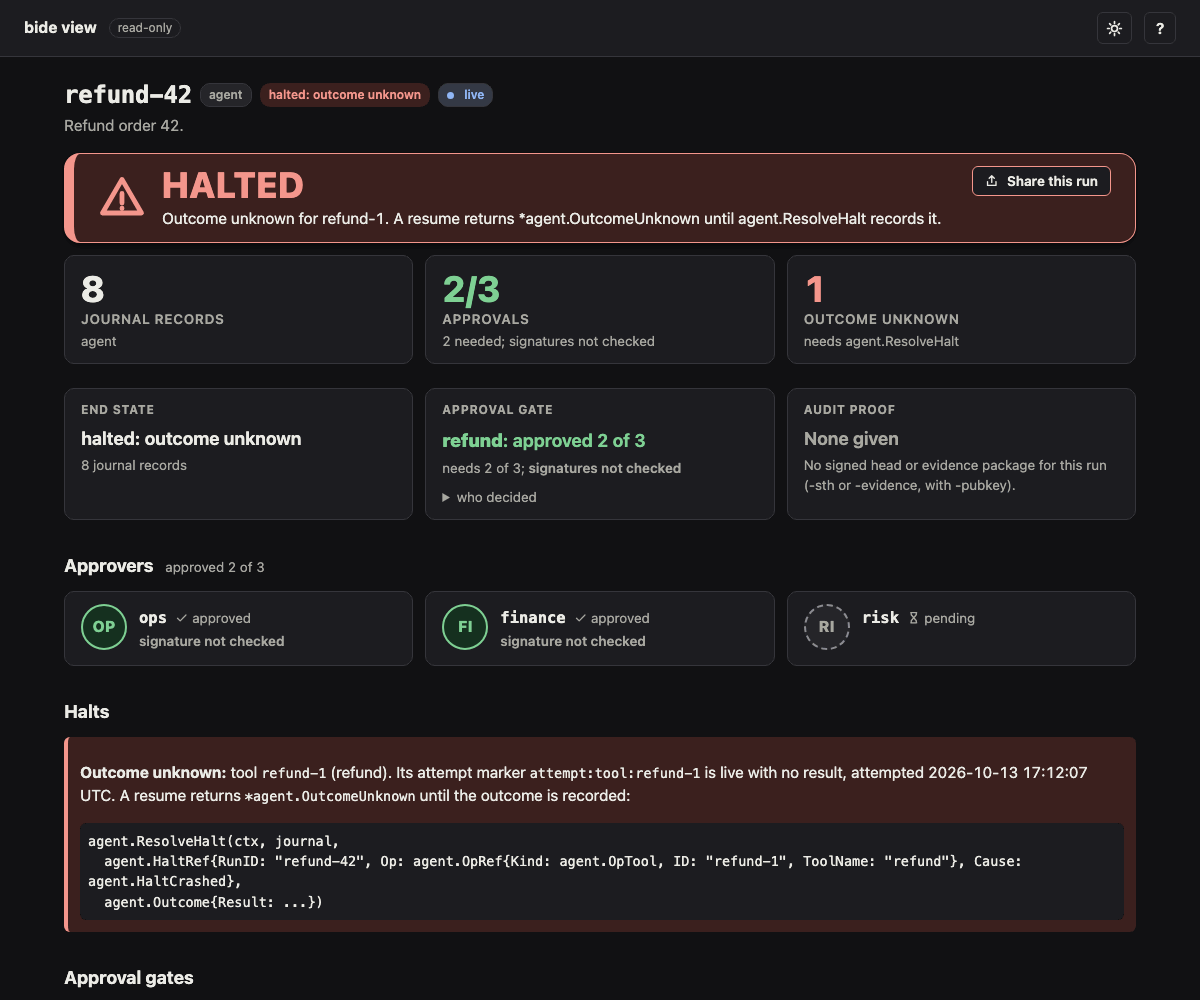
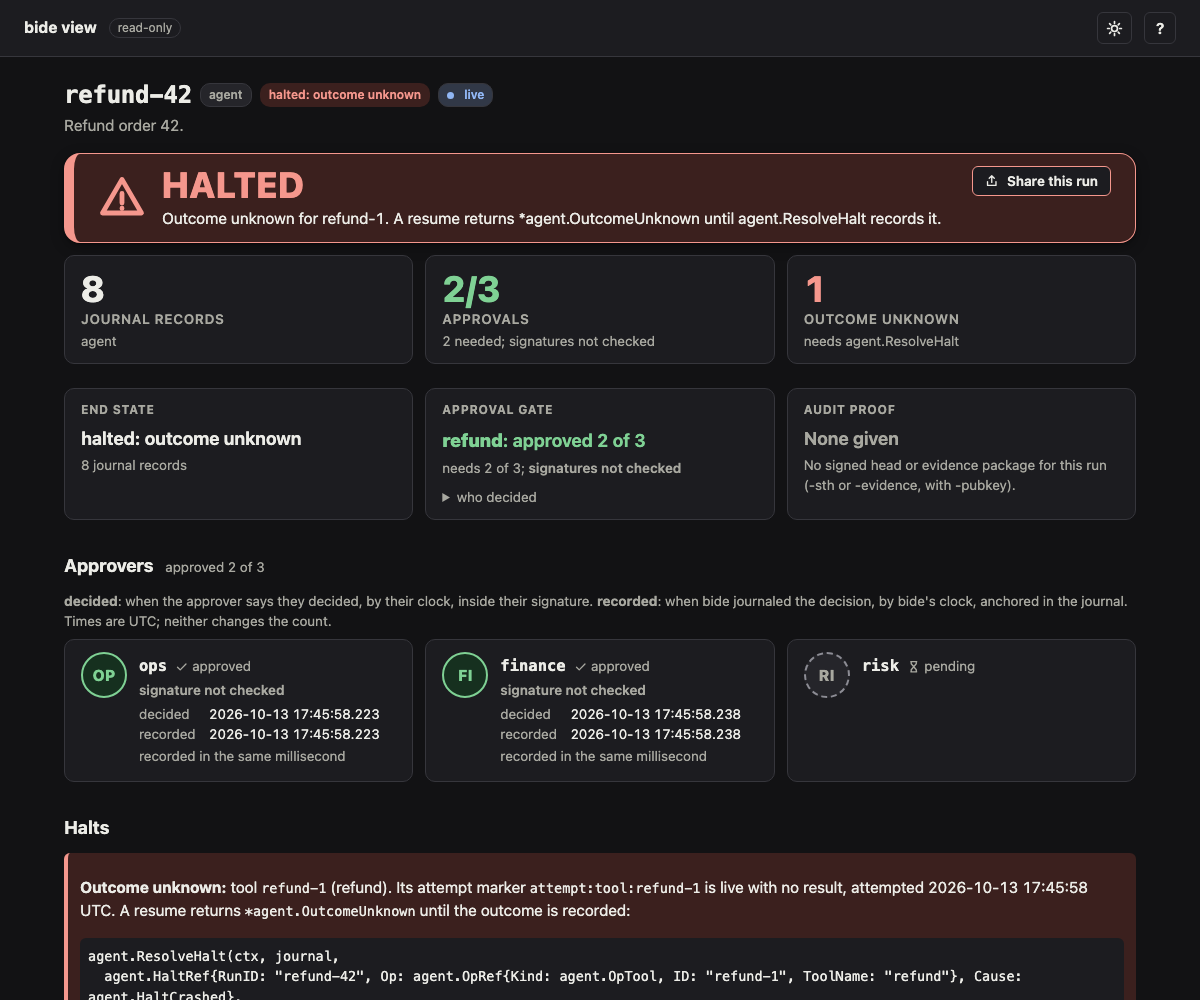
approval times: approver card layout, retaken viewer images, known limitation

Changed region(s): [[0.0308, 0.589, 0.9558, 1.0]]

diff --git a/internal/runview/assets/run.html b/internal/runview/assets/run.html
@@ -37,14 +37,14 @@
 </section>
 
 {{range .Gates}}{{if .Cards}}<section class="approvals"><h2>Approvers{{if gt (len $.Gates) 1}}: {{.ToolName}}{{end}} <span class="count">{{.Headline}}</span></h2>
+{{if .HasTimes}}<p class="small muted atimesnote"><b>decided</b>: when the approver says they decided, by their clock, inside their signature. <b>recorded</b>: when bide journaled the decision, by bide's clock, anchored in the journal. Times are UTC; neither changes the count.</p>{{end}}
 <ul class="acards">{{range .Cards}}<li class="acard a-{{.State}}">
 <span class="avatar" aria-hidden="true">{{.Initials}}</span>
 <div class="abody"><p class="aname"><b>{{.Name}}</b> <span class="astate">{{if eq .State "approved"}}{{icon "ok"}} approved{{else if eq .State "denied"}}{{icon "x"}} denied{{else}}{{icon "wait"}} pending{{end}}</span></p>
 {{if .Verify}}<p class="averify {{if .VerifyOK}}good{{else if eq .Verify "signature NOT verified"}}bad{{else}}muted{{end}}">{{if .VerifyOK}}{{icon "approval"}} {{else if eq .Verify "signature NOT verified"}}{{icon "x"}} {{end}}{{.Verify}}</p>{{end}}
 {{with .Why}}<p class="small bad">{{.}}</p>{{end}}
 {{with .Fingerprint}}<p class="small mono" title="the first 8 hex digits of the SHA-256 of the approver's public key">key {{.}}</p>{{end}}
-{{with .DecidedAt}}<p class="small" title="the approver's clock when they signed; inside the signature, so it cannot change after signing">decided {{.}} <span class="muted">(signed, the approver's clock)</span></p>{{end}}
-{{with .RecordedAt}}<p class="small" title="bide's clock when it journaled the decision; anchored by the Merkle trail, not signed by the approver">recorded {{.}} <span class="muted">(bide's clock)</span></p>{{end}}
+{{if or .DecidedAt .RecordedAt}}<dl class="atimes">{{with .DecidedAt}}<div><dt title="the approver's clock when they signed; inside the signature, so it cannot change after signing">decided</dt><dd>{{.}}</dd></div>{{end}}{{with .RecordedAt}}<div><dt title="bide's clock when it journaled the decision; anchored by the journal's Merkle trail, not signed by the approver">recorded</dt><dd>{{.}}</dd></div>{{end}}</dl>{{end}}
 {{with .Gap}}<p class="small muted">{{.}}</p>{{end}}
 {{range .Flags}}<p class="small aflag">{{icon "clock"}} {{.}}</p>{{end}}</div></li>{{end}}</ul></section>{{end}}{{end}}
 

diff --git a/internal/runview/assets/extras.css b/internal/runview/assets/extras.css
@@ -18,6 +18,11 @@
 .averify { font-weight: 600; font-size: var(--t-sm); }
 .averify .ic { margin-right: 2px; }
 .aflag { color: var(--warn); font-weight: 600; }
+.atimes { margin: 4px 0 2px; font-size: var(--t-sm); font-variant-numeric: tabular-nums; }
+.atimes div { display: flex; flex-wrap: wrap; column-gap: var(--s2); }
+.atimes dt { color: var(--muted); min-width: 4.6em; }
+.atimes dd { margin: 0; white-space: nowrap; }
+.atimesnote { margin: 0 0 var(--s2); }
 .aflag .ic { margin-right: 2px; }
 
 .merklewrap { padding: var(--s4); }

diff --git a/internal/runview/approvers.go b/internal/runview/approvers.go
@@ -30,7 +30,7 @@ type ApproverCard struct {
 	Fingerprint string
 	// DecidedAt is when the approver says they decided, by their clock, inside the signature;
 	// RecordedAt is when bide journaled the decision, by bide's clock. Both are display text
-	// ("2026-10-13 12:14:03.123 UTC"), empty when the record holds none. Gap is the difference
+	// in UTC ("2026-10-13 12:14:03.123"), empty when the record holds none. Gap is the difference
 	// between them in words, shown without judgment, and Flags the sanity notes on them
 	// (audit.FlagDecisionTimes, under audit.DefaultDecisionTimeTolerance), which never change
 	// the gate's outcome. Empty for a pending approver.
@@ -135,6 +135,11 @@ func cards(g Gate, p *Proof) []ApproverCard {
 	return out
 }
 
+// HasTimes reports whether any of the gate's approver cards shows a decision time.
+func (g Gate) HasTimes() bool {
+	return slices.ContainsFunc(g.Cards, func(c ApproverCard) bool { return c.DecidedAt != "" || c.RecordedAt != "" })
+}
+
 // decisionTime is the two times of approver n's decision on g, with their sanity flags: from the
 // signature check's verdict when it counted the decision (the exact decision the recount
 // counted), else from the journal, the approver's first signed decision with that outcome, the
@@ -152,8 +157,9 @@ func decisionTime(g Gate, chk ApprovalCheck, n string, approved bool) (audit.Dec
 	return audit.DecisionTime{}, false
 }
 
-// displayTime renders a recorded time ("2026-10-13T12:14:03.123Z") as "2026-10-13 12:14:03.123
-// UTC"; a value not in canonical form is shown as it is, marked, and an empty one stays empty.
+// displayTime renders a recorded time ("2026-10-13T12:14:03.123Z") as "2026-10-13 12:14:03.123"
+// (the page says the times are UTC); a value not in canonical form is shown as it is, marked, and
+// an empty one stays empty.
 func displayTime(s string) string {
 	if s == "" {
 		return ""
@@ -162,7 +168,7 @@ func displayTime(s string) string {
 	if err != nil {
 		return fmt.Sprintf("%q (not a canonical time)", s)
 	}
-	return t.Format("2006-01-02 15:04:05.000 UTC")
+	return t.Format("2006-01-02 15:04:05.000")
 }
 
 // gapWords phrases how long after the signed decision time bide recorded the decision, e.g.
@@ -172,7 +178,9 @@ func gapWords(t audit.DecisionTime) string {
 	switch {
 	case !ok:
 		return ""
-	case gap >= 0:
+	case gap == 0:
+		return "recorded in the same millisecond"
+	case gap > 0:
 		return "recorded " + gap.Round(time.Millisecond).String() + " after the signed time"
 	default:
 		return "recorded " + (-gap).Round(time.Millisecond).String() + " before the signed time"

diff --git a/internal/runview/premium_test.go b/internal/runview/premium_test.go
@@ -454,7 +454,7 @@ func TestApproverCards(t *testing.T) {
 	for _, who := range []string{"ops", "finance"} {
 		c := cs[who]
 		if c.State != "approved" || !c.VerifyOK || c.Verify != "signature verified" || !regexp.MustCompile(`^ed25519:[0-9a-f]{8}$`).MatchString(c.Fingerprint) ||
-			c.DecidedAt != "2026-10-13 12:14:03.123 UTC" || c.RecordedAt != "2026-10-13 12:14:05.000 UTC" || c.Gap != "recorded 1.877s after the signed time" || len(c.Flags) != 0 {
+			c.DecidedAt != "2026-10-13 12:14:03.123" || c.RecordedAt != "2026-10-13 12:14:05.000" || c.Gap != "recorded 1.877s after the signed time" || len(c.Flags) != 0 {
 			t.Errorf("%s card = %+v", who, c)
 		}
 	}
@@ -478,14 +478,14 @@ func TestApproverCards(t *testing.T) {
 		t.Errorf("no keys: ops = %+v", c)
 	}
 	cs = cardsOf(func(context.Context, string, []agent.Record) *Proof { return nil })
-	if c := cs["ops"]; c.VerifyOK || c.Verify != "signature not checked" || c.DecidedAt != "2026-10-13 12:14:03.123 UTC" || c.RecordedAt == "" {
+	if c := cs["ops"]; c.VerifyOK || c.Verify != "signature not checked" || c.DecidedAt != "2026-10-13 12:14:03.123" || c.RecordedAt == "" {
 		t.Errorf("no proof: ops = %+v", c)
 	}
 
 	h := Handler(Options{Source: JournalSource{J: j}, Provers: []Prover{HeadProver(sth, logPub, Approvals{Keys: approverKeys(nil)})}})
 	_, page := get(t, h, "/run?id=g1")
 	for _, want := range []string{`class="acard a-approved"`, `class="avatar" aria-hidden="true">OP<`, "signature verified", "key ed25519:", "Proof path",
-		"decided 2026-10-13 12:14:03.123 UTC", "recorded 2026-10-13 12:14:05.000 UTC", "recorded 1.877s after the signed time"} {
+		">decided</dt><dd>2026-10-13 12:14:03.123</dd></div>", ">recorded</dt><dd>2026-10-13 12:14:05.000</dd></div>", "recorded 1.877s after the signed time", `class="small muted atimesnote"`} {
 		if !strings.Contains(page, want) {
 			t.Errorf("the page lacks %s", want)
 		}

diff --git a/internal/runview/approval_times_test.go b/internal/runview/approval_times_test.go
@@ -28,14 +28,14 @@ func TestCards_DecisionTimes(t *testing.T) {
 		return out
 	}
 	cs := by(cards(g, nil))
-	if c := cs["ops"]; c.DecidedAt != "2026-10-13 12:00:01.500 UTC" || c.RecordedAt != "2026-10-13 12:00:04.000 UTC" || c.Gap != "recorded 2.5s after the signed time" || len(c.Flags) != 0 {
+	if c := cs["ops"]; c.DecidedAt != "2026-10-13 12:00:01.500" || c.RecordedAt != "2026-10-13 12:00:04.000" || c.Gap != "recorded 2.5s after the signed time" || len(c.Flags) != 0 {
 		t.Errorf("ops = %+v", c)
 	}
 	if c := cs["finance"]; c.Gap != "recorded 19m0s before the signed time" || !slices.Equal(c.Flags, []string{audit.FlagDecidedAfterRecorded}) {
 		t.Errorf("finance = %+v", c)
 	}
 	// risk's card is the denial (its state), not the earlier approval.
-	if c := cs["risk"]; c.DecidedAt != "2026-10-13 11:50:00.000 UTC" || !slices.Equal(c.Flags, []string{audit.FlagDecidedBeforeAsked}) {
+	if c := cs["risk"]; c.DecidedAt != "2026-10-13 11:50:00.000" || !slices.Equal(c.Flags, []string{audit.FlagDecidedBeforeAsked}) {
 		t.Errorf("risk = %+v", c)
 	}
 
@@ -43,7 +43,7 @@ func TestCards_DecisionTimes(t *testing.T) {
 	p := &Proof{Approvals: map[string]ApprovalCheck{"c1": {Counted: []string{"ops", "finance"}, Denied: []string{"risk"}, Times: map[string]audit.DecisionTime{
 		"ops": {Approver: "ops", DecidedAt: "2026-10-13T12:00:02.000Z", RecordedAt: "2026-10-13T12:00:04.000Z"},
 	}}}}
-	if c := by(cards(g, p))["ops"]; c.DecidedAt != "2026-10-13 12:00:02.000 UTC" || c.Gap != "recorded 2s after the signed time" {
+	if c := by(cards(g, p))["ops"]; c.DecidedAt != "2026-10-13 12:00:02.000" || c.Gap != "recorded 2s after the signed time" {
 		t.Errorf("ops with the recount's times = %+v", c)
 	}
 

diff --git a/internal/auditcli/auditcli.go b/internal/auditcli/auditcli.go
@@ -1215,7 +1215,9 @@ func gapText(d audit.DecisionTime) string {
 	switch {
 	case !ok:
 		return "gap unknown"
-	case gap >= 0:
+	case gap == 0:
+		return "in the same millisecond as the signed time"
+	case gap > 0:
 		return fmt.Sprintf("%s after the signed time", gap)
 	default:
 		return fmt.Sprintf("%s before the signed time", -gap)

diff --git a/docs/KNOWN-LIMITATIONS.md b/docs/KNOWN-LIMITATIONS.md
@@ -244,6 +244,13 @@ person is your identity provider's job. It refuses two approvers whose verifiers
 but it cannot see that one person holds two different keys. Keep old public keys after a rotation so old evidence still
 verifies. See [Human approval](guides/hitl-approval.md#scope).
 
+**A decision's time is the approver's claim.** Each signed decision carries when the approver
+decided (`decided_at`, by their clock, inside the signature) and when bide recorded it
+(`recorded_at`, by bide's clock). The signature stops anyone changing `decided_at` later, but nothing
+vouches for the approver's clock: bide flags a `decided_at` far after `recorded_at` or before the run
+asked, and never counts by it. No trusted timestamp authority (RFC 3161) stamps decisions yet. See
+[When a decision was made](guides/hitl-approval.md#when-a-decision-was-made).
+
 **A denied flow gate compensates nothing.** A plan flow node whose approval gate is denied never
 runs, but plan flows have no saga mode, so the nodes before it keep their effects and the run stays
 unfinished until it is cancelled. See [Plan flows](guides/plan-flows.md#approval-gates-on-nodes).
